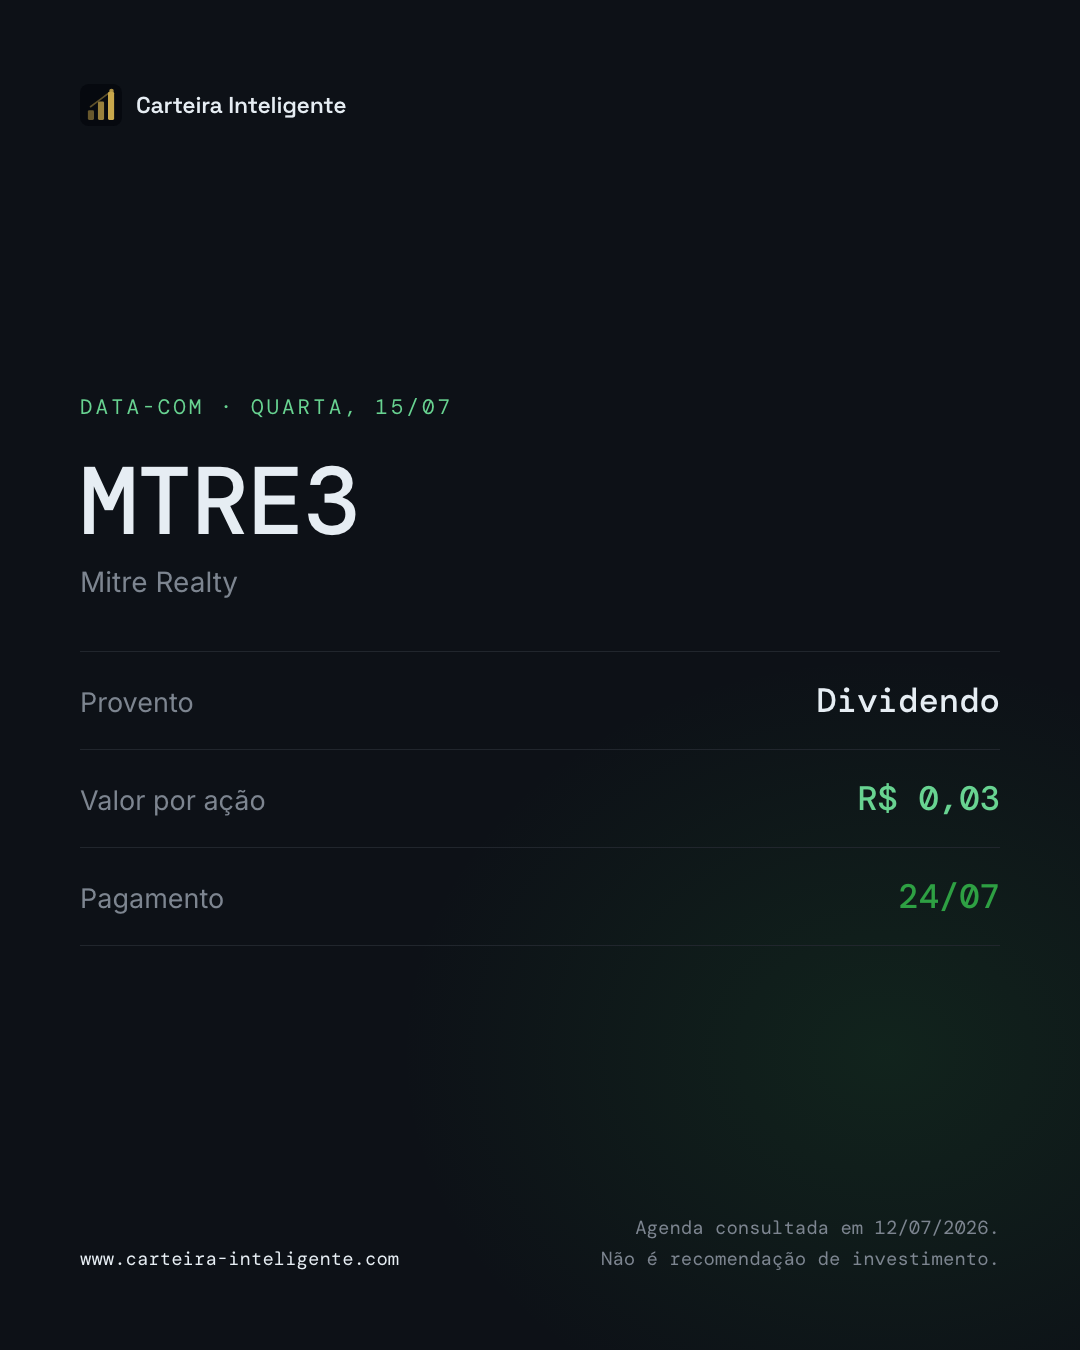
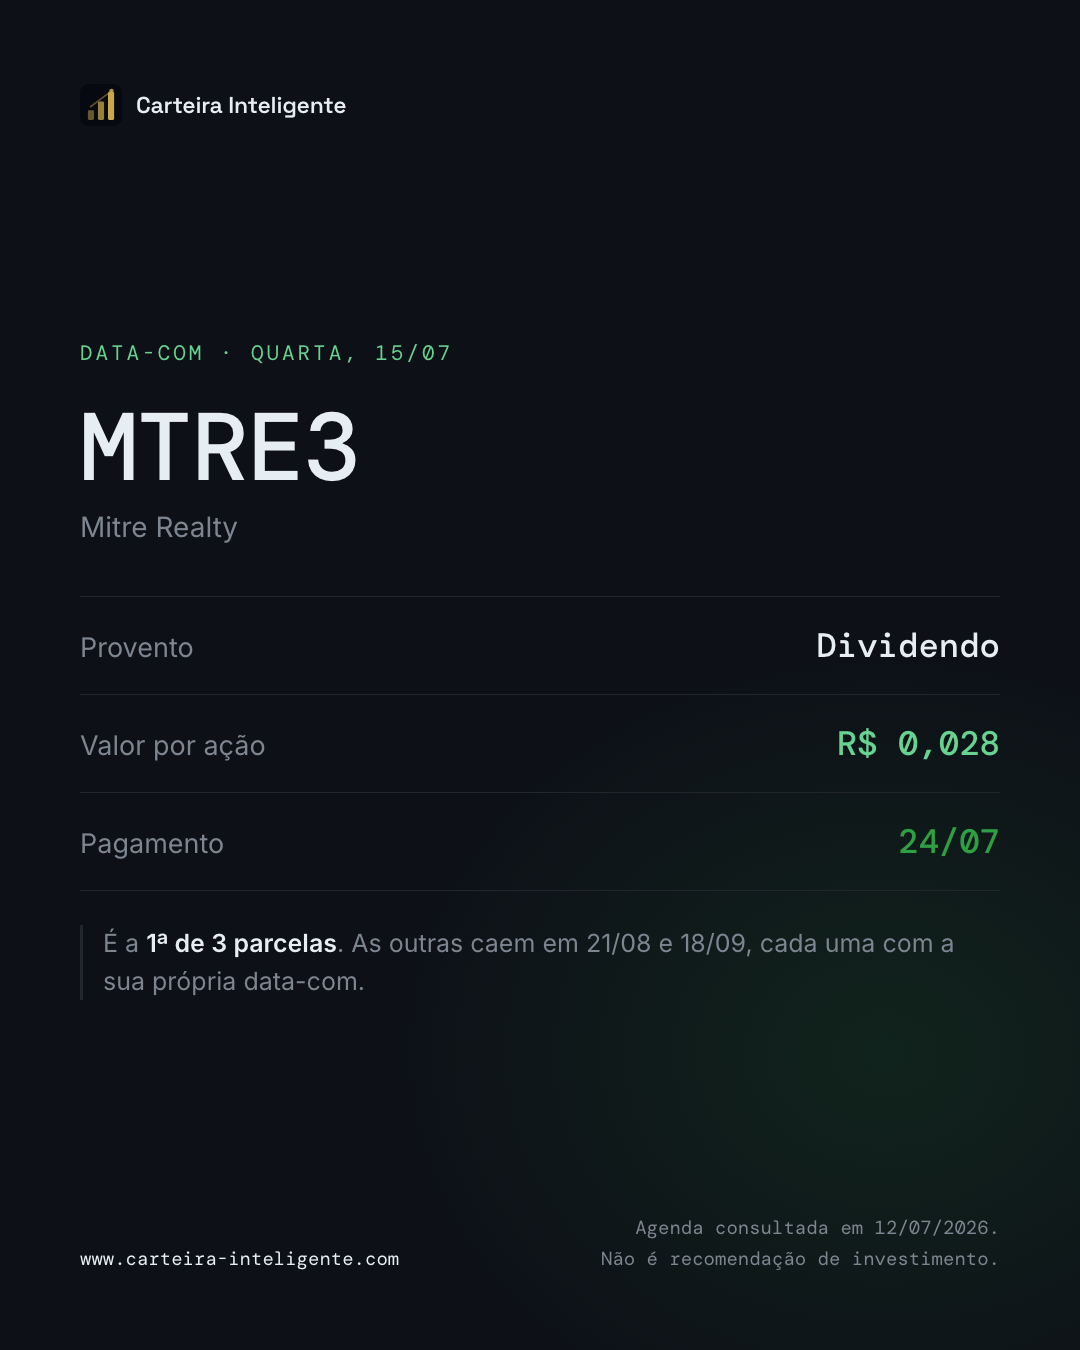
Corrige dados do carrossel após checagem em segunda fonte
A verificação pegou dois erros que iriam ao ar:
- MTRE3: R$ 0,03 era arredondamento. São R$ 9 mi em 3 parcelas, R$ 0,028
  por ação cada. Data-com 15/07 confirmada.
- PINE3/4: R$ 0,2714290 é valor BRUTO. JCP tem IR retido na fonte, o que
  o slide não dizia. Data-com 14/07 confirmada no comunicado ("posição
  acionária em 14 de julho"); a InfoMoney publicou a data-ex como data-com.

IGTI11 confirmada em duas fontes. Post promovido a aprovado.

diff --git a/campanhas/2026-07-13/carrossel-datas-com.html b/campanhas/2026-07-13/carrossel-datas-com.html
@@ -88,14 +88,12 @@
   .row .v.pos { color: var(--color-pos); }
   .row .v.acc { color: var(--accent); }
 
-  .chip {
-    display: inline-flex; align-items: center; gap: 12px;
-    align-self: flex-start;
-    border: 1px solid var(--border); background: var(--card-bg);
-    border-radius: 999px; padding: 13px 22px; margin-top: 44px;
-    font-family: 'DM Mono', monospace; font-size: 22px; color: var(--text-secondary);
+  .nota {
+    margin-top: 34px; font-size: 25px; line-height: 1.5;
+    color: var(--text-secondary);
+    border-left: 3px solid var(--border); padding-left: 20px;
   }
-  .chip i { width: 10px; height: 10px; border-radius: 50%; background: var(--accent); display: block; }
+  .nota strong { color: var(--text-primary); font-weight: 600; }
 
   /* CTA final */
   .cta {
@@ -170,9 +168,10 @@
     <div class="empresa">Banco Pine</div>
     <div class="rows">
       <div class="row"><span class="k">Provento</span><span class="v">JCP</span></div>
-      <div class="row"><span class="k">Valor por ação</span><span class="v pos">R$ 0,27</span></div>
+      <div class="row"><span class="k">Valor bruto por ação</span><span class="v pos">R$ 0,2714290</span></div>
       <div class="row"><span class="k">Pagamento</span><span class="v acc">22/07</span></div>
     </div>
+    <div class="nota">JCP não é dividendo: tem <strong>imposto de renda retido na fonte</strong>. O valor acima é bruto, e o que cai na conta é menor.</div>
   </div>
   <div class="foot">
     <div class="url">www.carteira-inteligente.com</div>
@@ -196,6 +195,7 @@
       <div class="row"><span class="k">Valor por unit</span><span class="v pos">R$ 0,17</span></div>
       <div class="row"><span class="k">Pagamento</span><span class="v acc">29/07</span></div>
     </div>
+    <div class="nota">É a <strong>3ª parcela</strong> dos R$ 200 milhões que a Iguatemi aprovou para pagar ao longo de 2026, divididos em quatro parcelas.</div>
   </div>
   <div class="foot">
     <div class="url">www.carteira-inteligente.com</div>
@@ -216,9 +216,10 @@
     <div class="empresa">Mitre Realty</div>
     <div class="rows">
       <div class="row"><span class="k">Provento</span><span class="v">Dividendo</span></div>
-      <div class="row"><span class="k">Valor por ação</span><span class="v pos">R$ 0,03</span></div>
+      <div class="row"><span class="k">Valor por ação</span><span class="v pos">R$ 0,028</span></div>
       <div class="row"><span class="k">Pagamento</span><span class="v acc">24/07</span></div>
     </div>
+    <div class="nota">É a <strong>1ª de 3 parcelas</strong>. As outras caem em 21/08 e 18/09, cada uma com a sua própria data-com.</div>
   </div>
   <div class="foot">
     <div class="url">www.carteira-inteligente.com</div>

diff --git a/posts/instagram/2026-07-13-instagram-datas-com-da-semana.md b/posts/instagram/2026-07-13-instagram-datas-com-da-semana.md
@@ -1,7 +1,7 @@
 ---
 canal: instagram
 formato: carrossel
-status: rascunho
+status: aprovado
 data_publicacao: 2026-07-13
 ---
 
@@ -13,13 +13,13 @@ E tem a parte que pouca gente conta. Depois que a data-com passa, você pode ven
 
 Nesta semana caem três:
 
-PINE3 e PINE4, terça (14/07). JCP de R$ 0,27 por ação, pago em 22/07.
+PINE3 e PINE4, terça (14/07). JCP de R$ 0,2714290 por ação, pago em 22/07. Repare que é JCP, não dividendo: tem imposto de renda retido na fonte, então o valor que cai na conta é menor que o anunciado.
 
-IGTI11, quarta (15/07). Dividendo de R$ 0,17 por unit, pago em 29/07.
+IGTI11, quarta (15/07). Dividendo de R$ 0,17 por unit, pago em 29/07. É a terceira das quatro parcelas que a Iguatemi aprovou para 2026.
 
-MTRE3, quarta (15/07). Dividendo de R$ 0,03 por ação, pago em 24/07.
+MTRE3, quarta (15/07). Dividendo de R$ 0,028 por ação, pago em 24/07. É a primeira de três parcelas, e as outras duas têm data-com própria em agosto e setembro.
 
-Agenda consultada em 12/07/2026. Empresa muda data, então confirme no RI antes de contar com o dinheiro.
+Datas e valores conferidos em 12/07/2026 nos comunicados das empresas. Empresa muda data, então confirme no RI antes de contar com o dinheiro.
 
 Isto é calendário, não recomendação de compra. Se algum desses papéis faz sentido pra sua carteira, quem decide é você.
 
@@ -39,22 +39,28 @@ Eyebrow: O QUE É DATA-COM
 Comprou no dia seguinte, você entra "ex". Aquele pagamento não é seu.
 
 **Slide 3 — PINE**
-Eyebrow: TERÇA, 14/07
-PINE3 · PINE4
-JCP de R$ 0,27 por ação
-Pagamento em 22/07
+Eyebrow: DATA-COM · TERÇA, 14/07
+PINE3 · PINE4 (Banco Pine)
+Provento: JCP
+Valor bruto por ação: R$ 0,2714290
+Pagamento: 22/07
+Nota: JCP não é dividendo. Tem IR retido na fonte, e o que cai na conta é menor que o bruto.
 
 **Slide 4 — Iguatemi**
-Eyebrow: QUARTA, 15/07
-IGTI11
-Dividendo de R$ 0,17 por unit
-Pagamento em 29/07
+Eyebrow: DATA-COM · QUARTA, 15/07
+IGTI11 (Iguatemi)
+Provento: dividendo
+Valor por unit: R$ 0,17
+Pagamento: 29/07
+Nota: terceira das quatro parcelas dos R$ 200 milhões aprovados para 2026.
 
 **Slide 5 — Mitre**
-Eyebrow: QUARTA, 15/07
-MTRE3
-Dividendo de R$ 0,03 por ação
-Pagamento em 24/07
+Eyebrow: DATA-COM · QUARTA, 15/07
+MTRE3 (Mitre Realty)
+Provento: dividendo
+Valor por ação: R$ 0,028
+Pagamento: 24/07
+Nota: primeira de três parcelas. As outras caem em 21/08 e 18/09, cada uma com data-com própria.
 
 **Slide 6 — a parte que pouca gente sabe**
 Eyebrow: DEPOIS DA DATA-COM
@@ -70,8 +76,16 @@ CTA: Entrar com o Google. Gratuito.
 
 Arte em `campanhas/2026-07-13/`, gerada a partir de `carrossel-datas-com.html` (Chrome headless, 1080x1350 por slide). Segue o `BRAND.md`: fundo `#0d1117`, título em Space Grotesk 600, ticker e valores em DM Mono, verde `#2ea043` no acento e `#68d391` no dado em destaque. Logo dourado no topo de cada slide.
 
-Os slides de ticker (3, 4 e 5) trazem no rodapé a data de consulta da agenda e a nota de que não é recomendação. Isso não é decoração: sem a data, o slide envelhece e vira informação errada.
+Os slides de ticker (3, 4 e 5) trazem no rodapé a data de consulta e a nota de que não é recomendação. Isso não é decoração: sem a data, o slide envelhece e vira informação errada.
 
 ## Fonte dos dados
 
-Agenda de proventos do Investidor10 (`investidor10.com.br/acoes/dividendos/2026/julho/`), consultada em 12/07/2026. Fonte secundária. Conferir data-com, valor e data de pagamento no RI de cada empresa antes de publicar.
+Cada data-com foi conferida em duas fontes, e a checagem mudou dois números.
+
+**PINE3 / PINE4** — data-com 14/07, ex a partir de 15/07, pagamento 22/07, R$ 0,2714290 bruto por ação. O comunicado diz "terão direito ao provento os acionistas com posição acionária em 14 de julho de 2026" ([Money Times](https://www.moneytimes.com.br/banco-pine-pine4-anuncia-jcp-de-r-69-milhoes-veja-quem-tem-direito-vtra/)). A [InfoMoney](https://www.infomoney.com.br/mercados/mitre-e-banco-pine-informam-pagamento-de-proventos-aos-acionistas/) publicou 15/07 como data-com, que é na verdade a data-ex. Não usar a InfoMoney como fonte de data-com.
+
+**MTRE3** — data-com 15/07, ex a partir de 16/07, pagamento 24/07. São R$ 9 milhões em três parcelas de R$ 3 milhões: R$ 0,08508641283 por ação no total, ou R$ 0,028 por parcela. O R$ 0,03 da agenda do Investidor10 é arredondamento da primeira parcela e não deve ir ao ar como valor exato.
+
+**IGTI11** — data-com 15/07, pagamento 29/07, R$ 0,17 por unit. Terceira das quatro parcelas dos R$ 200 milhões aprovados para 2026. As datas batem em duas fontes; o valor por unit veio só do Investidor10.
+
+Antes de publicar, vale um último olhar no RI de cada empresa. Data de provento muda por deliberação do conselho, e o post carrega o número na imagem.